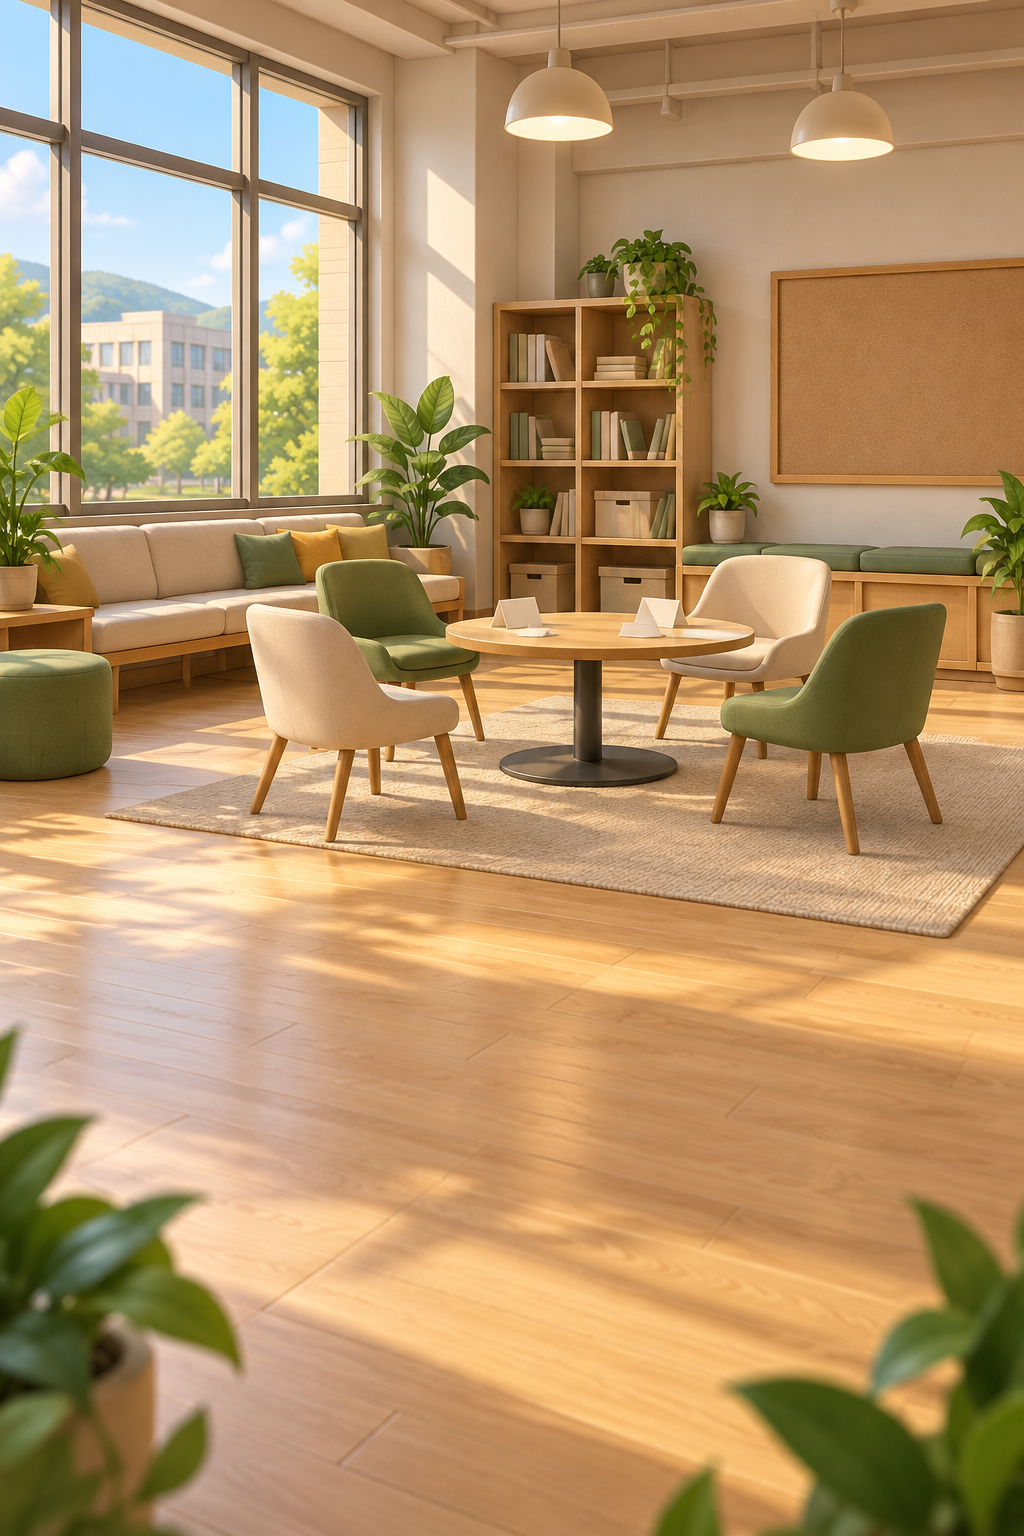
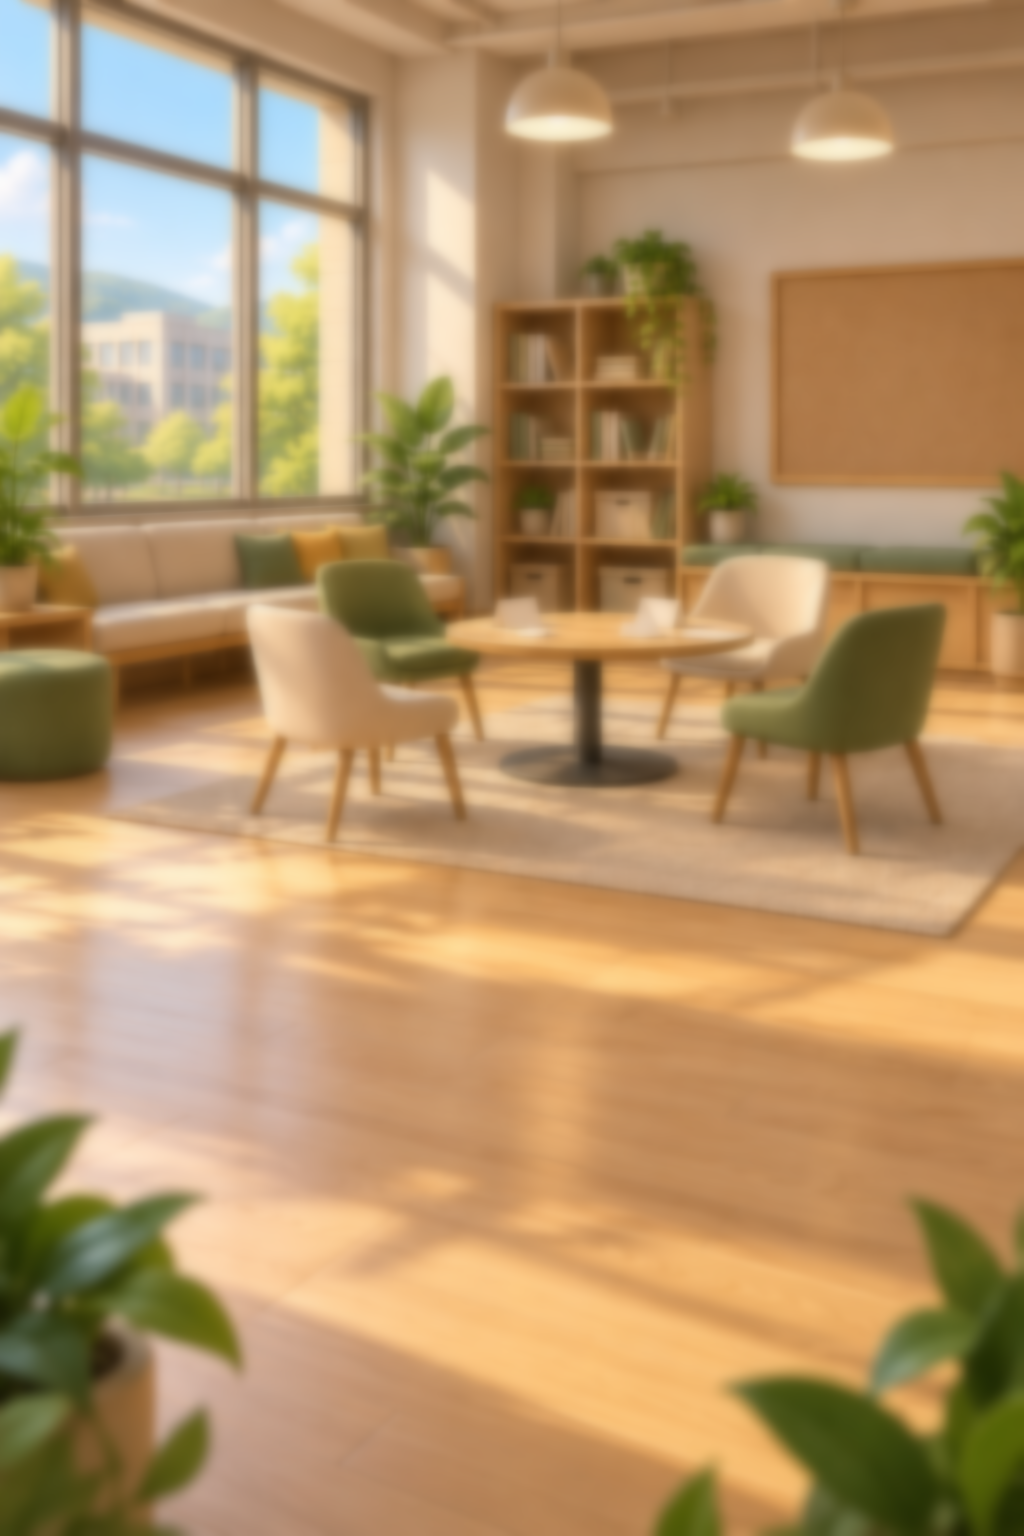
Resume failed jobs and serve softly blurred backgrounds

diff --git a/src/generation.ts b/src/generation.ts
@@ -1,6 +1,6 @@
 import { createHash, randomUUID } from 'node:crypto';
 import { aiRequest } from './ai';
-import { rows, put, claimJob, patchJob, publishChapter } from './content-db';
+import { rows, put, claimJob, patchJob, publishChapter, retryJob } from './content-db';
 import { persona, curriculum, type CatalogChapter } from './content';
 import { ChapterInput, Outline, Lesson, type ChapterRequest, type Job } from './generation-contracts';
 import type { Scenario } from './catalog';
@@ -12,6 +12,7 @@ const fingerprint=(request:ChapterRequest)=>{const {persona:_,...input}=request;
 export const jobView=(j:Job)=>({id:j.id,label:j.checkpoint.outline?.title||j.request.prompt.slice(0,60),characterId:j.request.characterId,personalityId:j.request.personalityId,status:j.status,stage:j.stage,chapterId:j.chapter_id,error:j.error,createdAt:j.created_at,updatedAt:j.updated_at});
 export async function jobs(owner:string){return (await rows<Job>('malo_generation_jobs',{owner_id:owner},'created_at.desc')).map(jobView);}
 export async function job(owner:string,id:string){const j=(await rows<Job>('malo_generation_jobs',{id,owner_id:owner}))[0];if(!j)throw new ApiError('JOB_NOT_FOUND','생성 작업을 찾지 못했어요.',404);return jobView(j);}
+export async function retry(owner:string,id:string){const j=(await rows<Job>('malo_generation_jobs',{id,owner_id:owner}))[0];if(!j)throw new ApiError('JOB_NOT_FOUND','생성 작업을 찾지 못했어요.',404);if(j.error?.code==='CONTENT_NOT_ALLOWED')throw new ApiError('CONTENT_NOT_ALLOWED','내용을 수정해 새로 생성해 주세요.',422);if(j.status==='failed')await retryJob(id,owner);return job(owner,id);}
 async function enqueue(owner:string|null,request:ChapterRequest) {
   const hash=fingerprint(request);
   const filters:Record<string,string>=owner?{owner_id:owner,client_request_id:request.clientRequestId}:{request_key:'catalog:'+request.catalogId};
@@ -38,7 +39,7 @@ export async function workOne(){
   try{
     if(!cp.outline){const r=await aiRequest('/v1/chapters/outline',request);cp.outline=Outline.parse(r.outline);if(cp.outline.lessons.length!==j.request.lessonCount)throw new ApiError('OUTLINE_INVALID','챕터 구성을 확인하지 못했어요.',502,true);}
     else if((cp.lessons?.length||0)<j.request.lessonCount){const r=await aiRequest('/v1/chapters/lesson',{request,outline:cp.outline,index:cp.lessons?.length||0});(cp.lessons??=[]).push(Lesson.parse(r.lesson));}
-    else if(!cp.backgroundUrl){const curated:Record<string,string>={'gf-1':'commonroom','gf-2':'study'};const existing=curated[j.request.catalogId||'']||cp.outline.existingBackground;cp.backgroundUrl=existing==='new'?`/api/v1/images/${(await aiRequest('/v1/chapters/background',{description:cp.outline.background})).assetId}`:`/api/v1/catalog-assets/bg-${existing}.png`;}
+    else if(!cp.backgroundUrl){const curated:Record<string,string>={'gf-1':'commonroom','gf-2':'study','prof-2':'office','prof-3':'office'};const existing=curated[j.request.catalogId||'']||cp.outline.existingBackground;cp.backgroundUrl=existing==='new'?`/api/v1/images/${(await aiRequest('/v1/chapters/background',{description:cp.outline.background})).assetId}`:`/api/v1/catalog-assets/bg-${existing}.png`;}
     else {
       const chapterId=j.request.catalogId||j.id;
       const scenarios:Record<string,Scenario>={};

diff --git a/src/app.ts b/src/app.ts
@@ -174,6 +174,7 @@ app.openAPIRegistry.registerPath({ method: 'get', path: '/images/{assetId}', tag
 endpoint({method:'post',path:'/chapter-generations',tag:'Generation',summary:'나만의 챕터 생성 예약 — 즉시 반환, 서버에서 계속 생성',input:ChapterInput,output:JobView,run:(_,body,p)=>Generation.create(p!.id,body)});
 endpoint({method:'get',path:'/chapter-generations',tag:'Generation',summary:'내 생성 작업 목록',output:z.array(JobView),run:(_,__,p)=>Generation.jobs(p!.id)});
 endpoint({method:'get',path:'/chapter-generations/{id}',tag:'Generation',summary:'내 생성 상태 — 완료 시 chapterId',params:idParam,output:JobView,run:(c,_,p)=>Generation.job(p!.id,c.req.param('id')!)});
+endpoint({method:'post',path:'/chapter-generations/{id}/retry',tag:'Generation',summary:'실패한 생성을 저장한 단계부터 재시도',params:idParam,input:empty,output:JobView,run:(c,_,p)=>{limit(p!.id+':generation-retry',3);return Generation.retry(p!.id,c.req.param('id')!);}});
 endpoint({method:'get',path:'/notifications/push/config',tag:'Notifications',summary:'웹 푸시 공개 설정',output:z.object({enabled:z.boolean(),publicKey:z.string().nullable()}),run:()=>Push.pushConfig()});
 endpoint({method:'post',path:'/notifications/push/subscriptions',tag:'Notifications',summary:'알림 허용 후 브라우저 구독 저장',input:z.object({endpoint:z.string().url().max(4096),keys:z.object({p256dh:z.string().min(20).max(200),auth:z.string().min(10).max(100)})}),output:z.object({id:z.string()}),run:(_,b,p)=>Push.subscribe(p!.id,b)});
 endpoint({method:'delete',path:'/notifications/push/subscriptions/{subscriptionId}',tag:'Notifications',summary:'내 브라우저 알림 구독 해제',params:z.object({subscriptionId:z.string().regex(/^[a-f0-9]{64}$/)}),output:z.object({removed:z.literal(true)}),run:async(c,_,p)=>{await Push.unsubscribe(c.req.param('subscriptionId')!,p!.id);return {removed:true};}});

diff --git a/tests/generation.test.ts b/tests/generation.test.ts
@@ -46,3 +46,14 @@ test('DB character data is the read source and push endpoints reject private-net
  assert.equal((await api('/characters')).data.find((c:{id:string})=>c.id==='friend').name,'DB 변경 이름');
  assert.equal((await api('/notifications/push/subscriptions',{endpoint:'https://127.0.0.1/push',keys:{p256dh:'x'.repeat(40),auth:'x'.repeat(24)}},token)).status,422);
 });
+test('A failed generation retries from its saved lesson and remains private',async()=>{
+ const a=(await api('/auth/guest',{})).data,b=(await api('/auth/guest',{})).data;
+ const j=(await api('/chapter-generations',{clientRequestId:randomUUID(),prompt:'교수님과 처음 대화하기',characterId:'professor',personalityId:'calm',lessonCount:2},a.accessToken)).data;
+ const real=globalThis.fetch;let broken=true;const indexes:number[]=[];
+ globalThis.fetch=async(url,init)=>{if(String(url).endsWith('/outline'))return Response.json({outline});const i=JSON.parse(init!.body as string).index;indexes.push(i);if(broken&&i===1)return Response.json({error:{code:'AI_UNAVAILABLE',message:'다시 시도',retryable:true}},{status:502});return Response.json({lesson:lesson()});};
+ try{for(let i=0;i<4;i++)await workOne();assert.equal((await api('/chapter-generations/'+j.id,undefined,a.accessToken)).data.status,'failed');
+  assert.equal((await api('/chapter-generations/'+j.id+'/retry',{},b.accessToken)).status,404);
+  broken=false;assert.equal((await api('/chapter-generations/'+j.id+'/retry',{},a.accessToken)).data.status,'queued');
+  for(let i=0;i<3;i++)await workOne();assert.equal((await api('/chapter-generations/'+j.id,undefined,a.accessToken)).data.status,'ready');assert.equal(indexes.filter(i=>i===0).length,1);
+ }finally{globalThis.fetch=real;}
+});

diff --git a/src/content-db.ts b/src/content-db.ts
@@ -24,6 +24,11 @@ export async function patchJob(id:string, worker:string, update:Row) {
   const keys=Object.keys(update); const values=keys.map(k=>encoded.has(k)&&update[k]!=null?JSON.stringify(update[k]):update[k]) as (string|number|null)[];
   return !!sqlite().prepare(`UPDATE malo_generation_jobs SET ${keys.map(k=>`${k}=?`).join(',')} WHERE id=? AND worker_token=?`).run(...values,id,worker).changes;
 }
+export async function retryJob(id:string,owner:string){
+  const update={status:'queued',stage:'retrying',error:null,attempts:0,worker_token:null,lease_until:null,updated_at:new Date().toISOString()};
+  if(dataMode()==='supabase'){await rest(`malo_generation_jobs?id=eq.${id}&owner_id=eq.${owner}&status=eq.failed`,{method:'PATCH',body:JSON.stringify(update)});return;}
+  sqlite().prepare("UPDATE malo_generation_jobs SET status='queued',stage='retrying',error=NULL,attempts=0,worker_token=NULL,lease_until=NULL,updated_at=? WHERE id=? AND owner_id=? AND status='failed'").run(update.updated_at,id,owner);
+}
 export async function claimJob(worker:string):Promise<Job|null> {
   if(dataMode()==='supabase') return (await rest('rpc/malo_claim_generation_job',{method:'POST',body:JSON.stringify({worker})}))?.[0]??null;
   const db=sqlite(), now=new Date().toISOString();

diff --git a/src/ai.ts b/src/ai.ts
@@ -45,6 +45,7 @@ export async function evaluate(scenario: Scenario, node: SceneNode, text: string
   const grade = result.data;
   // Language help is a retry, even if a provider incorrectly graded it as a clear mistake.
   if (grade.native || isOtherLanguage(text, scenario.pack)) return { ...grade, native: true, outcome: 'clarify' as const };
+  if(grade.outcome==='correct'&&((allowedRoutes.length&&!allowedRoutes.includes(grade.routeId||''))||(allowedEndings.length&&!allowedEndings.includes(grade.endingId||''))))throw new ApiError('STORY_ROUTE_INVALID','이야기 반응을 확인하지 못했어요. 체력 차감 없이 다시 시도해 주세요.',502,true);
   return grade;
 }
 export function isOtherLanguage(text: string, pack: 'ko' | 'en') {
